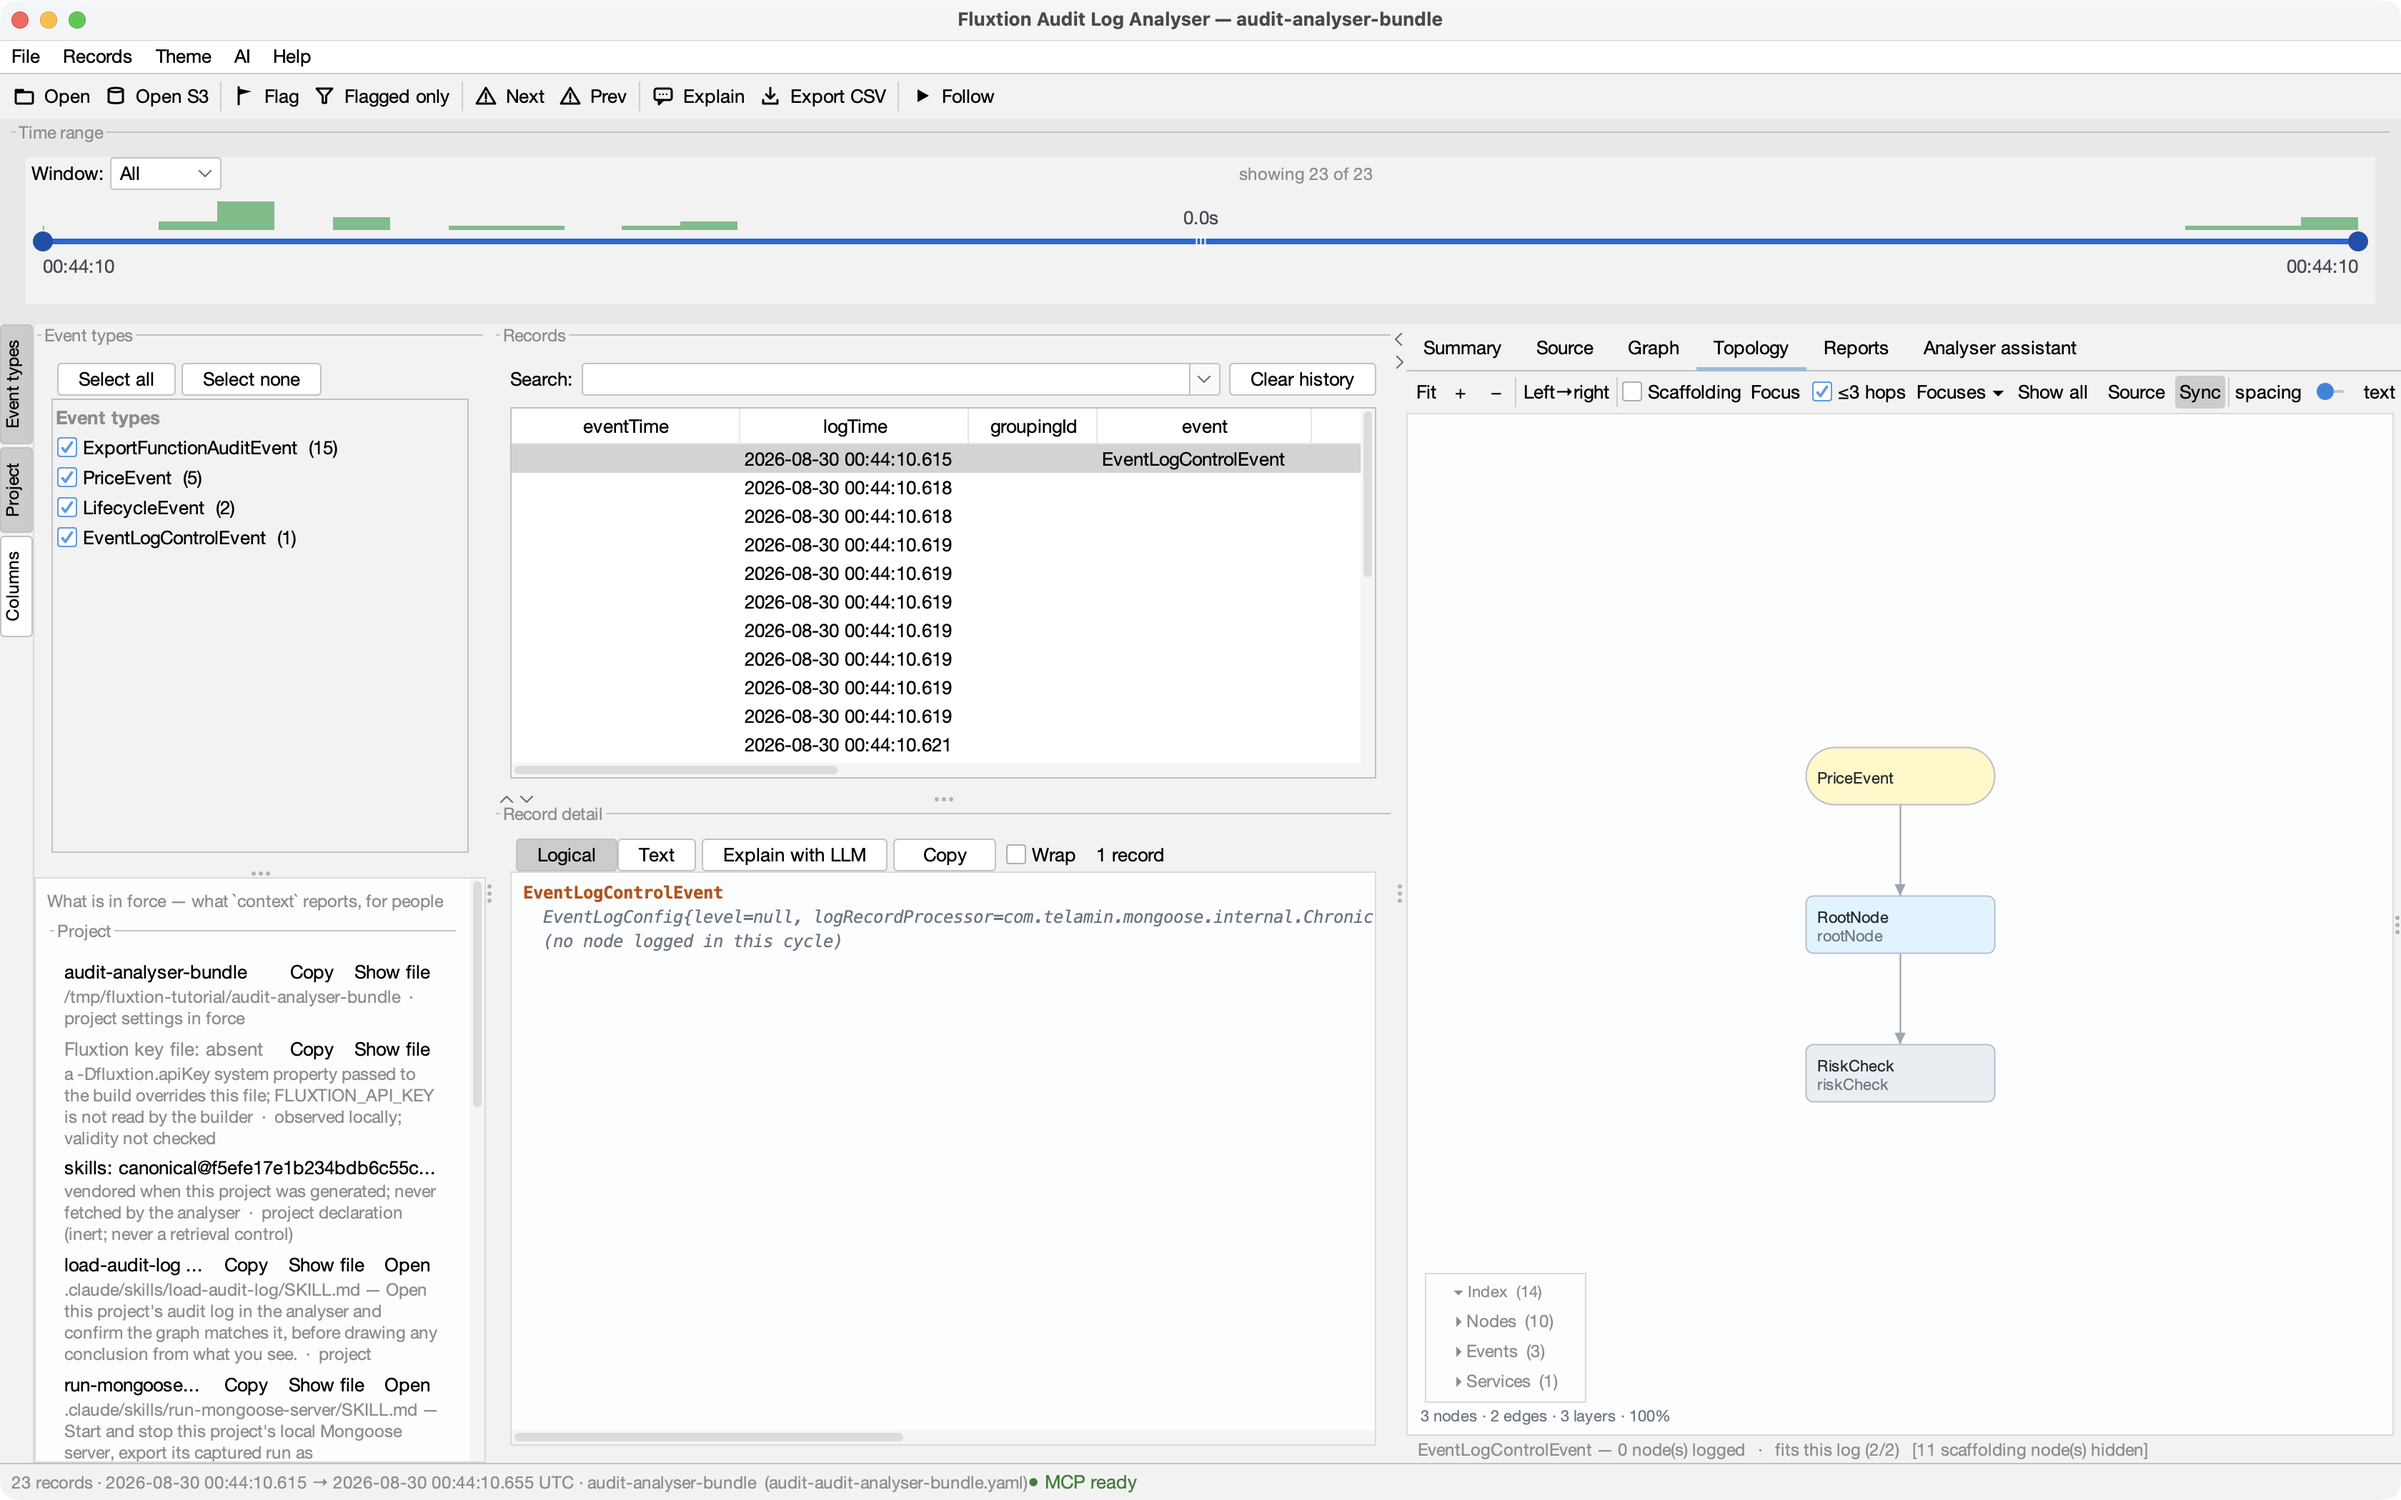
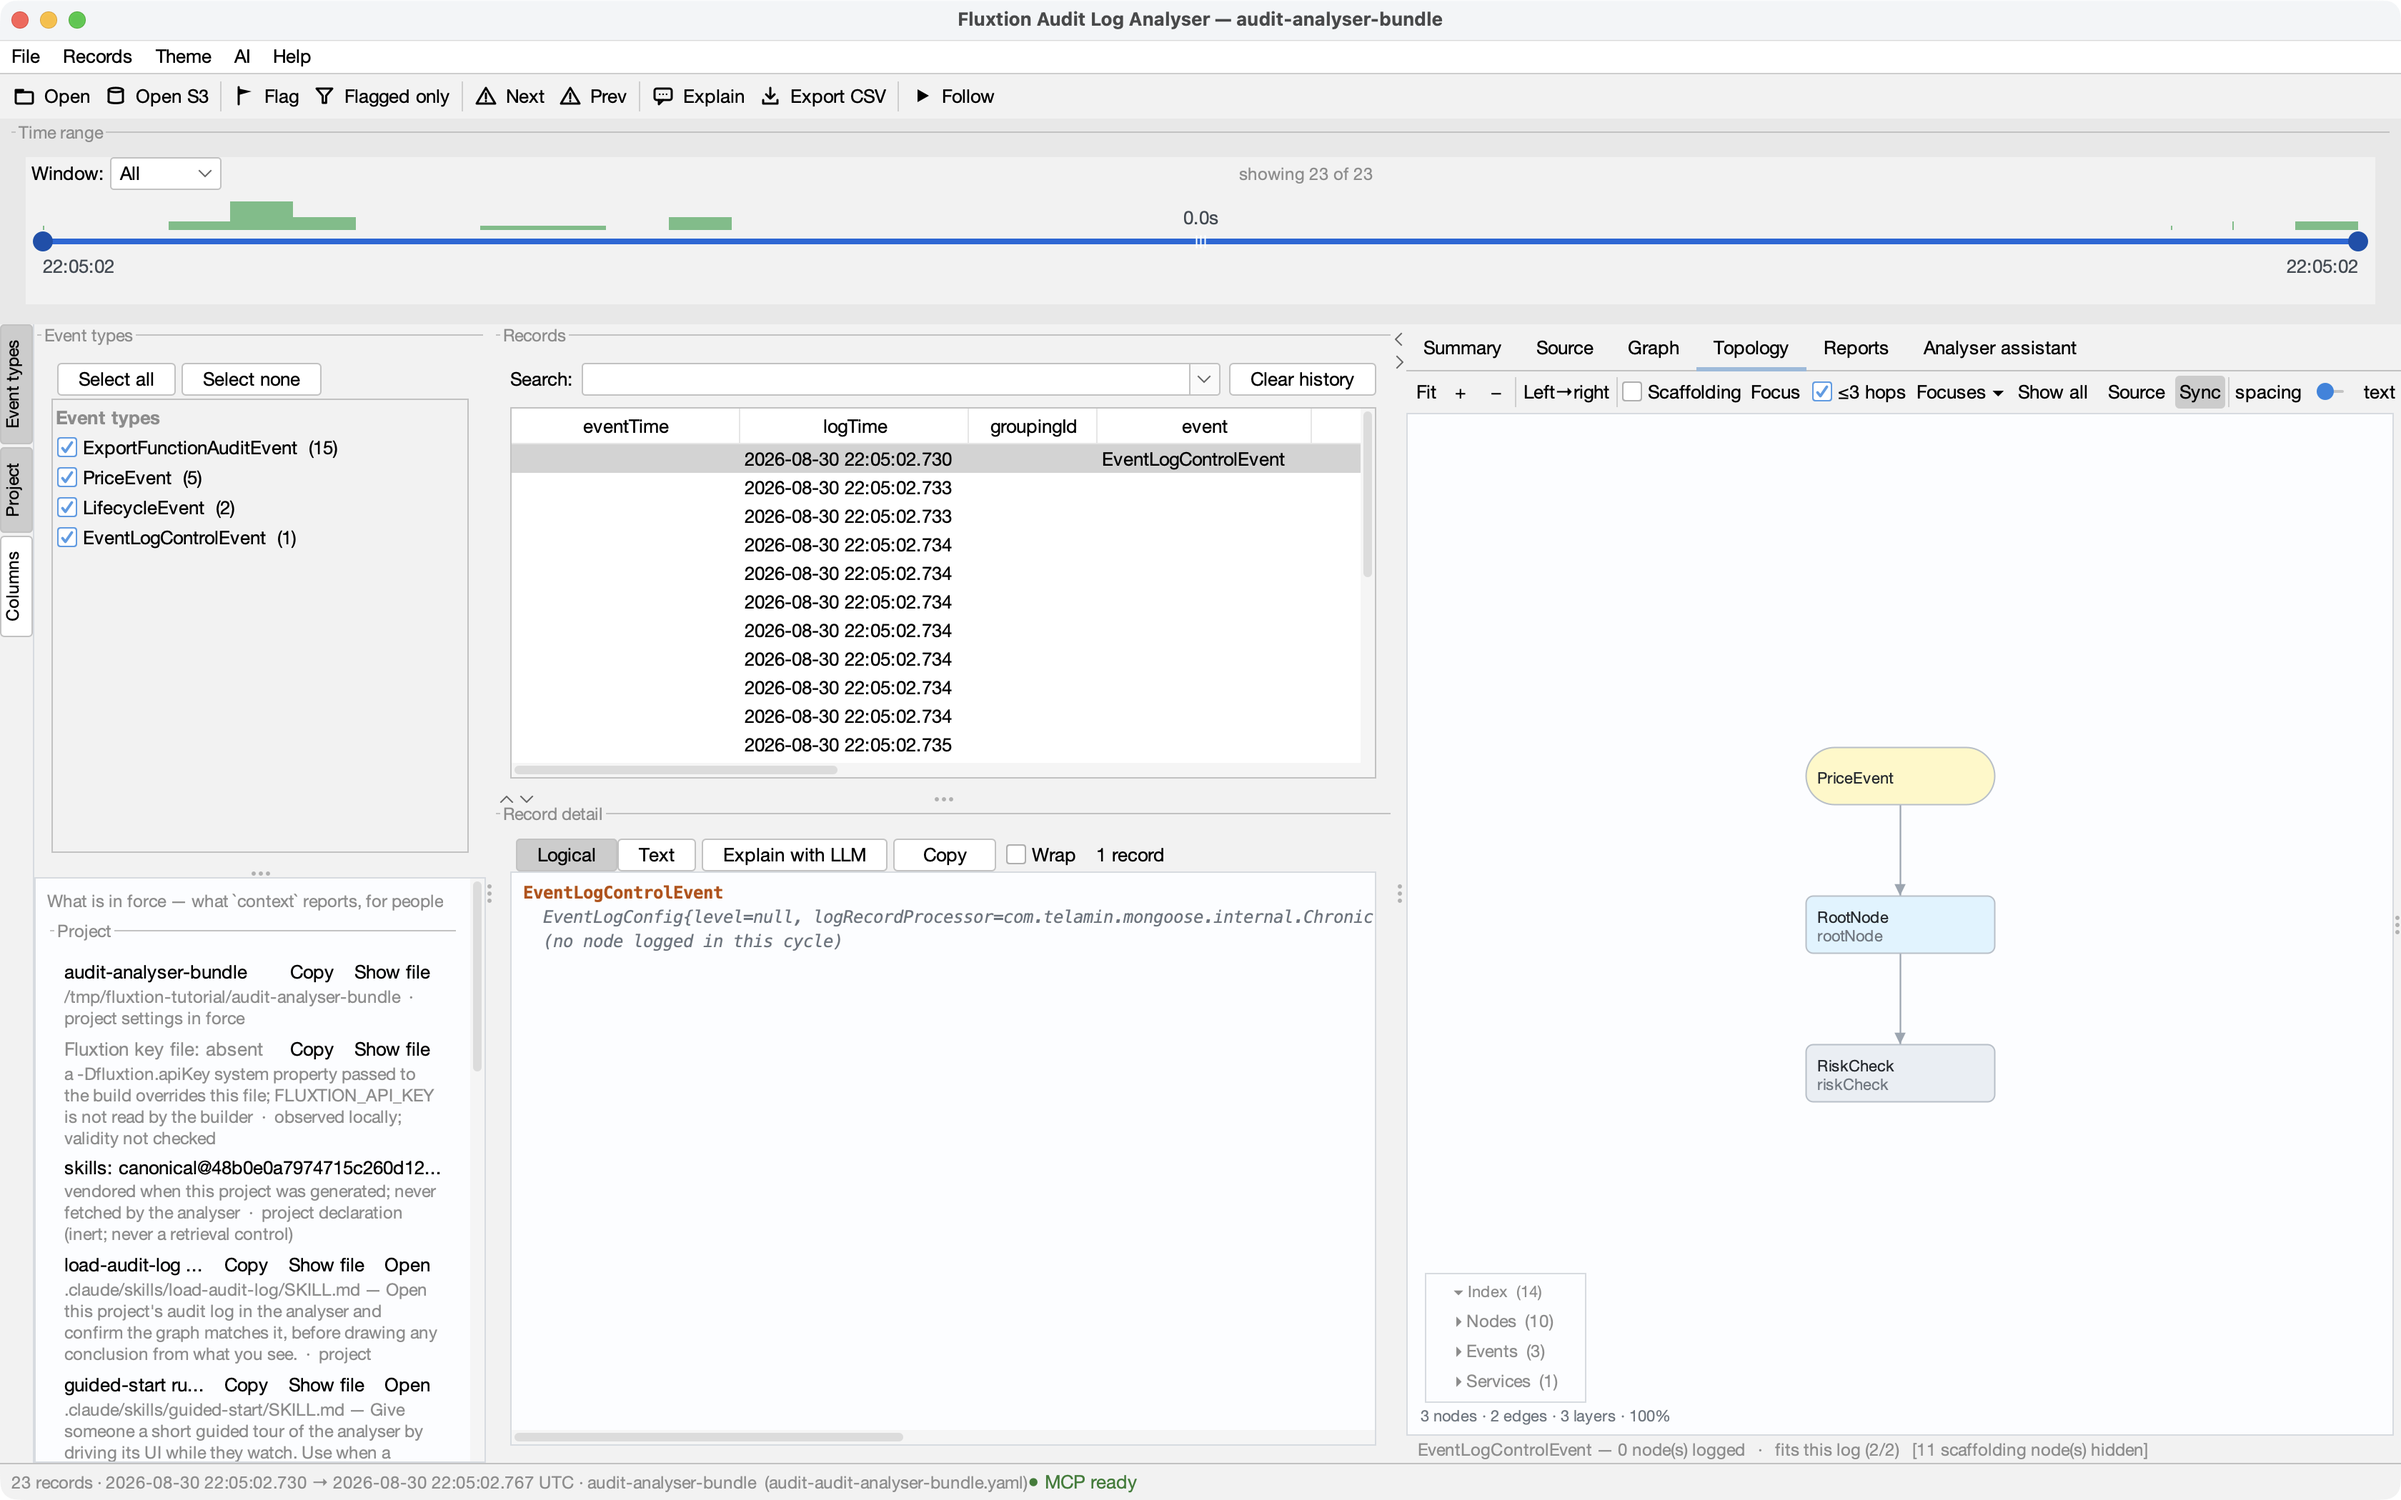
docs: re-shoot the tutorial figures, and make the graph step true again
The figures showed two skills where four now ship, and the cycle figure predated
the numeric audit keys — which is the very thing that figure exists to show.
Re-captured from a bundle staged at fluxtion-web b24f4b6; every image read
before committing.

The prose needed the larger correction, in the opposite direction from usual.
The graph step honestly said the bundle "does not yet write price as a separate
numeric key, so there is no honest bundle value to tell you to right-click" —
true when written this morning, false now. It tells readers to chart price or
volume from their own run, and keeps the DEMO screenshot only because five
cycles make an illegible chart, saying so rather than implying the demo IS the
bundle.

The cycle figure now shows what the fix produced: receivedEvent alongside
price: 195.3 and volume: 1200, as separate keys.

Claude-Session: https://claude.ai/code/session_013whYavYX7Toz7acKHbKd4C

diff --git a/docs/site/tutorial-playground.md b/docs/site/tutorial-playground.md
@@ -104,11 +104,13 @@ topology numbers the two nodes in dispatch order](assets/tutorial-cycle.png)
 ![Source navigation from the selected rootNode audit line to the generated processor and its
 RootNode implementation](assets/tutorial-source.png)
 
-The analyser can graph any numeric node-log value. The current bundle records the complete
-`PriceEvent` under `rootNode.receivedEvent`, but does not yet write `price` as a separate numeric key,
-so there is no honest bundle value to tell you to right-click in this release. The screenshot below
-shows the same graph action on the analyser's anonymous generated DEMO run; the starter follow-up is
-to log `price` separately and make this step executable rather than merely illustrative.
+The analyser can graph any numeric node-log value, and this bundle now writes two. Alongside the
+readable `rootNode.receivedEvent`, each cycle records `price` and `volume` as their own numeric keys —
+visible in the record above. Right-click either one and chart it: a string entry is for reading, a
+numeric one is for measuring, and a series needs the second kind.
+
+The bundle's own run is only five cycles, so the chart is a short one. The screenshot below is the
+same action over the analyser's longer anonymous DEMO run, purely so the shape is legible.
 
 ![A numeric node-log value plotted over a longer anonymous generated DEMO run](assets/graph-series-light.png)
 
